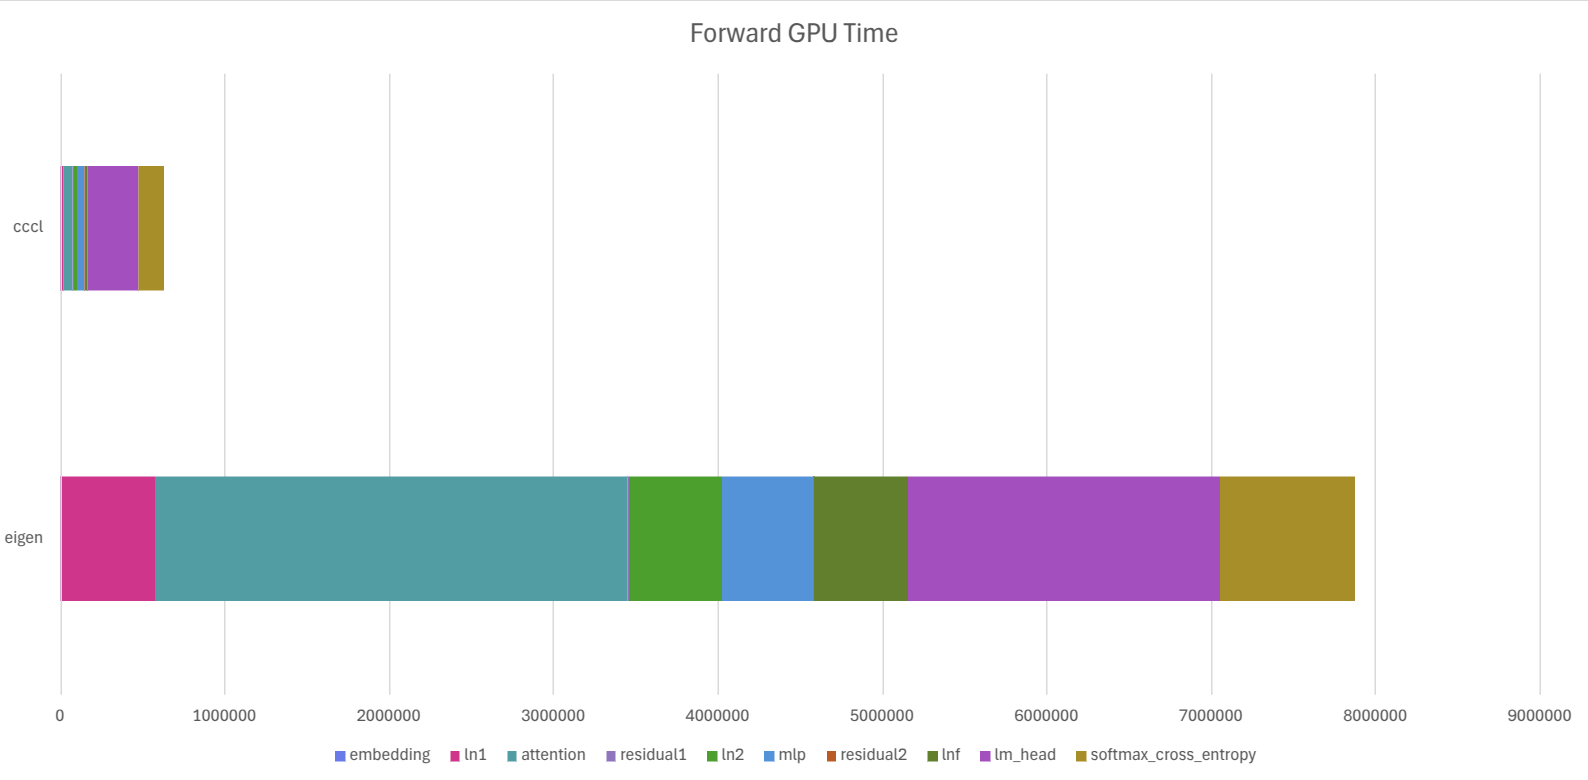
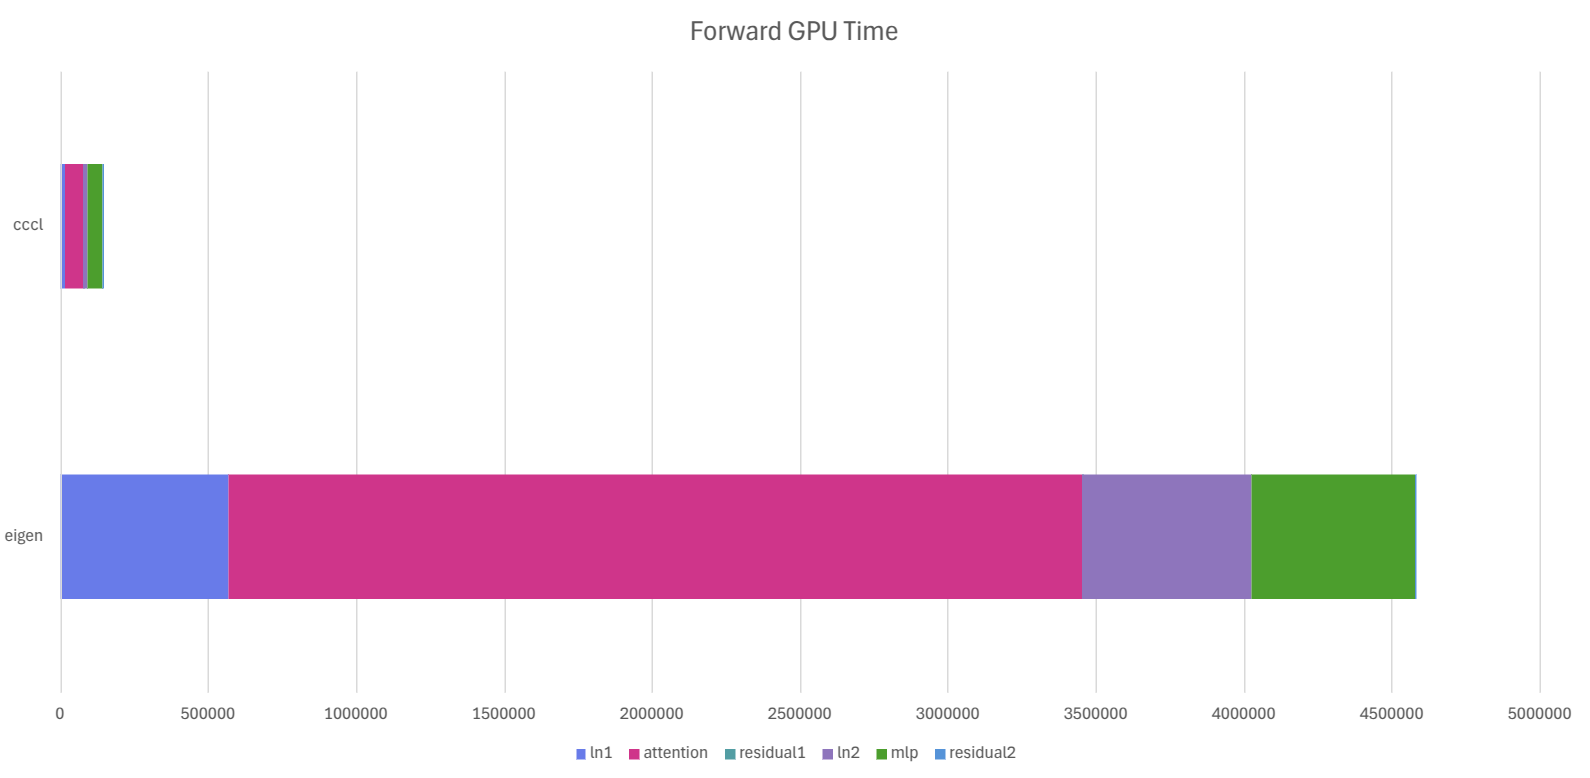
update plots and time

diff --git a/src/content/posts/intro-to-llm-profiling.md b/src/content/posts/intro-to-llm-profiling.md
@@ -94,10 +94,10 @@ All the activities records and metrics collected will be grouped by range name a
 
 Kernel launch is where CUDA assigns computation tasks to the GPU. The number of kernels and the size of blocks and grids can produce profound impact on system performance. Ideally, each kernel should have enough blocks and threads so that it doesn’t under utilize the compute resources. On the other hand, too many blocks, threads or kernel launches themselves will accumulate overheads and severely hurt the overall performance. In this section, we will see how the two implementations differ and why they differ. In later sections, we will discuss how these differences impact the performance
 
-| Framework / Range         | attention | lm_head | ln1 | ln2 | lnf | mlp | residual1 | residual2 | softmax_cross_entropy |
-|----------------------------|------------|----------|-----|-----|-----|-----|------------|------------|------------------------|
-| **Eigen**                 | 440        | 1        | 2   | 3   | 3   | 5   | 1          | 1          | 10                     |
-| **CCCL**                  | 8          | 1        | 1   | 1   | 1   | 4   | 1          | 1          | 1                      |
+| Framework / Range         | attention | ln1 | ln2  | mlp | residual1 | residual2 |
+|----------------------------|------------|----------|-----|-----|-----|------------|
+| **Eigen**                 | 440        | 2   | 3   | 5   | 1          | 1          |
+| **CCCL**                  | 8          | 1   | 1   | 4   | 1          | 1          |
 
 If we compare the two implementations in forward process, it is obvious that the Eigen version launches more kernels, especially in the attention. In the cccl version, it is implemented in a way that all the computation is fused in one global kernel. Only big ranges, like mlp and attention, will employ some helper device kernels. Whereas the kernel launches in Eigen are not explicit. In other words, the number of kernels and their grid/block sizes are dependent on the implementation of Eigen. It is not guaranteed that each assignment of eigen will generate only one kernel, and that’s why generally the Eigen version launches more kernels than the cccl version. This is the reason why most ranges of Eigen llm.cpp launch more kernels than the cccl one.
 
@@ -137,18 +137,34 @@ Time consumption is one of the key metrics of any type of program. Here we will 
 
 We should notice that both times will rise significantly if CUPTI is involved. We have verified it through comparing the wall clock time without profiling and GPU time with profiling. If the GPU time we measured doesn’t contain the overhead, the profiled GPU time should not exceed the non-profiled wall clock time because the wall clock time includes more items including overheads and bookkeeping than GPU time. The data shows that for some ranges do have a higher profiled GPU time than the non-profiled wall clock time. Therefore all the data we have shown will include CUPTI overheads.
 
-![][forward-wallclock-time]![][forward-wallclock-time-ratio]![][kernel-num-ratio]![][forward-gpu-time]![][forward-gpu-time-ratio]  
-The above charts are the wall clock time(in microseconds) and GPU time(in nanoseconds) of all the ranges and their ratio. It should be very clear that there is a huge overall performance gap between eigen and cccl implementation if we compare the wall clock time. Many factors contribute to these gaps. 
+![][forward-gpu-time]![][forward-gpu-time-ratio] 
+The above charts are the wall clock time(in microseconds) and GPU time(in nanoseconds) of all the ranges and their ratio. A huge overall performance gap between eigen and cccl implementation are presented and many factors contribute to these gaps. 
 
-Let’s start from the GPU time. Even without involving any factors on the CPU side, the gap between the two versions is still quite large. The biggest contributors to the GPU time are the attention, lm\_head and softmax\_cross\_entropy. This makes sense because all of them are both compute and memory heavy. The reason for attention to take so much time is because it has large matrix multiplication to get Q, K, V and the correlations. Additionally, softmax is also an expensive operation because it requires the sum and max of each token. Similarly, softmax\_cross\_entropy also calculates softmax, and in addition to that, to get the cross entropy, it needs to calculate the max of all the logits. Although the lm\_head is essentially a matrix multiplication, it operates over the vocabulary dimension rather than the embedding dimension. This makes the weight matrix extremely large, resulting in significantly higher computation time and memory usage. Consequently, these ranges are the most resource-intensive among all and take most of the time.
+Let’s start from the GPU time. Without considering CPU side, the gap between the two versions is still quite large. The biggest contributors to the GPU time are the attention and mlp ranges, which is as expected because according to the roofline calculation, these two ranges did most FLOPs and MOPs. However, if we compare the ratio of GPU time between the two version, we can observe that the attention range of the eigen llm.cpp significantly outweighs the mlp range, whereas in cccl llm.cpp, these ranges are relatively equivalent. According to the prior section, we know that enormous small kernels are launched within the attention of eigen llm.cpp. This causes several problems:
+* Reduced locality on L1 because L1 is flushed between kernels.
+* Poor latency hiding due to the shortage of blocks and short kernels.
 
-If we compare the ratio of GPU time, we can find that the attention increased from about 10% to 35%, the biggest jump among all the ranges. This suggests that it is the main contributor to the gap of GPU time. Given that eigen llm.cpp launches 440 kernels for attention, it has a huge number of metrics to collect because all metrics are collected for every kernel. With that said, it’s fair to believe that the big jump of the GPU time for attention is due to CUPTI overhead. Layer norms also take more GPU time relative to the cccl version. That’s probably because the kernel of the layer norm only has one block. The low SM utilization and dram throughput can cause the GPU execution time to increase significantly.
+Another noteworthy point is the developer of the cccl llm.cpp implementation applies several optimizations to improve cache efficiency — for instance, using cache streaming to allow one-time data to bypass the cache, and employing reverse iteration to increase cache hits at the tail of arrays. In contrast, the Eigen version lacks such low-level optimizations, at least from the user side. As a result, the cccl version achieves higher cache hit rates and fewer dram accesses, which directly contributes to its shorter execution time.
 
-On the other side, the gap of the wall clock time enlarges, suggesting that there are factors other than the CUPTI and GPU usage that further drops down the overall performance. We suggest that the additional dropdown is probably caused by launch overhead. To demonstrate this, we present a ratio chart of Eigen’s kernel launches. By comparing the kernel launch ratio with the wall-clock time ratio, a clear linear relationship emerges, strongly indicating that launch overhead is probably the primary contributor to the wall-clock time in eigen llm.cpp.
+![][forward-wallclock-time]![][forward-wallclock-time-ratio]
+On the other side, the gap of the wall clock time enlarges, suggesting that there are more factors outside GPU that further drops down the overall performance. We suggest that the additional dropdown is probably dorminated by launch overhead. To explain the difference, we conducted an experiment using a simple CUDA program and did some calculations. In this program, we launched 440 kernels with minimum FLOPS. The average wall clock time we got is around xxx microseconds per kernel, which should mostly be launch overhead. **Helloworld data needs update. Right now data is showing avg wall clock time/kernel is 3~15 microseconds. mlp of eigen is an outlier with 90 microseconds.** In comparison, we calculated the average gap between kernels using this formula:
+```math
+AvgLaunchOverhead = (RangeWallClockTime - GPUExecutionTime) / KernelNum
+```
+The result is presented here:
+| Layer         | Eigen Avg Gap (µs) | CCCL Avg Gap (µs) |
+|----------------|--------------------------------|--------------------------------|
+| ln1            | 5.136                          | 14.544                         |
+| attention      | 6.669                          | 5.053                          |
+| residual1      | 14.288                         | 13.128                         |
+| ln2            | 3.747                          | 14.064                         |
+| feed_forward   | 90.354                         | 9.172                          |
+| residual2      | 15.064                         | 13.840                         |
 
-To further explain the difference, we conducted an experiment using a simple CUDA program and did some calculations. In this program, we launched 440 kernels with minimum operations. The average wall clock time we got is around 130 microseconds per kernel, which should mostly be launch overhead.   **The number is not matching\! The data we got is around 100k microsecond, not the same magnitude. My previous calculation matches 100k, and I copied the logs to the excel. However, I can no longer reproduce that number.. Figuring out what is causing the discrepency...**
-
-Finally, the developer of the cccl llm.cpp implementation applies several optimizations to improve cache efficiency — for instance, using cache streaming to allow one-time data to bypass the cache, and employing reverse iteration to increase cache hits at the tail of arrays. In contrast, the Eigen version lacks such low-level optimizations, at least from the user side. As a result, the cccl version achieves higher cache hit rates and fewer dram accesses, which directly contributes to its shorter execution time.
+We can see that the avg gap mostly lies between 3~15µs, which matches(really?) the maginitude we got from helloworld. This indicates that the extra wall clock time compared to GPU execution time is mostly launch overheads. Other than this, there are other possibilities of the time spent:
+* Allocation and release of resources, e.g. registers and shared memory, especially for the attention of eigen.
+* Synchronized H2D or D2H transfer. 
+* 
 
 ## SASS Instructions
 
